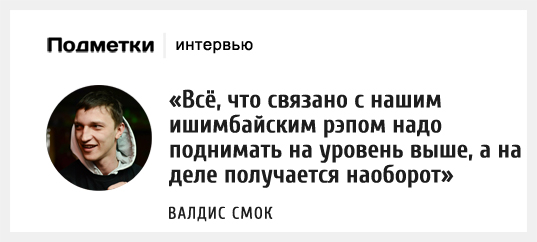
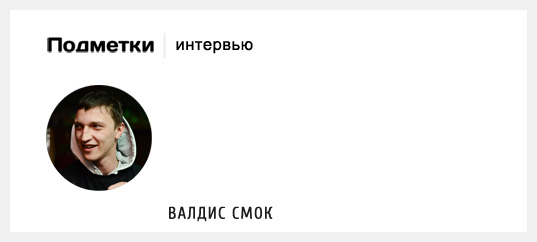
select image for news or interview. step 0

Changed region(s): [[0.298, 0.3471, 0.9832, 0.781]]

diff --git a/classes/CreateImageClass.php b/classes/CreateImageClass.php
@@ -8,7 +8,7 @@ class CreateImageClass
 
     public $fontFamily = 'cuprum.ttf';
 
-    public $fontSize = '23';
+    public $fontSize = 23;
 
     public $widthString = 430;
 
@@ -29,7 +29,7 @@ class CreateImageClass
             '2' => [
                 'category' => 'Интервью',
                 'image' => 'interview.jpg',
-                'padding' => '180,110',
+                'padding' => '170,110',
             ]
         ];
     }
@@ -84,10 +84,35 @@ class CreateImageClass
         if (empty($file)) {
             $im = imagecreatefromjpeg($this->pathImage . $nameImage);
         }
-        else {
+        elseif(!empty($file) & $nameImage == 'interview.jpg') {
+            move_uploaded_file($file['file']['name'], $this->pathImage . basename($file['file']['name']));
+            
+            $im = imagecreatefromjpeg("images/interview.jpg");
+            imagealphablending($im, true);
+            imagesavealpha($im, true);
+            
+            $is = imagecreatefrompng($file['file']['tmp_name']);
+            imagealphablending($is, false);
+            imagesavealpha($is, true);
+
+            $black = imagecolorallocate($is, 0, 0, 0);
+            imagecolortransparent($is, $black);
+
+            imagecopy($im, $is, 43, 83, 0, 0, imagesx($im), imagesy($im));
+        }
+        elseif (!empty($file)) {
             move_uploaded_file($file['file']['name'], $this->pathImage . basename($file['file']['name']));
 
-            $im = imagecreatefromjpeg($file['file']['tmp_name']);
+            $im = imagecreatefromjpeg("images/news.jpg");
+            imagealphablending($im, true);
+            imagesavealpha($im, true);
+
+            $is = imagecreatefromjpeg($file['file']['tmp_name']);
+            imagealphablending($is, true);
+
+            imagecopymerge($is, $im, 0, 0, 0, 0, imagesx($im), imagesy($im), 70);
+
+            //$im = imagecreatefromjpeg($file['file']['tmp_name']);
         }
 
         $font = $this->fontSize;
